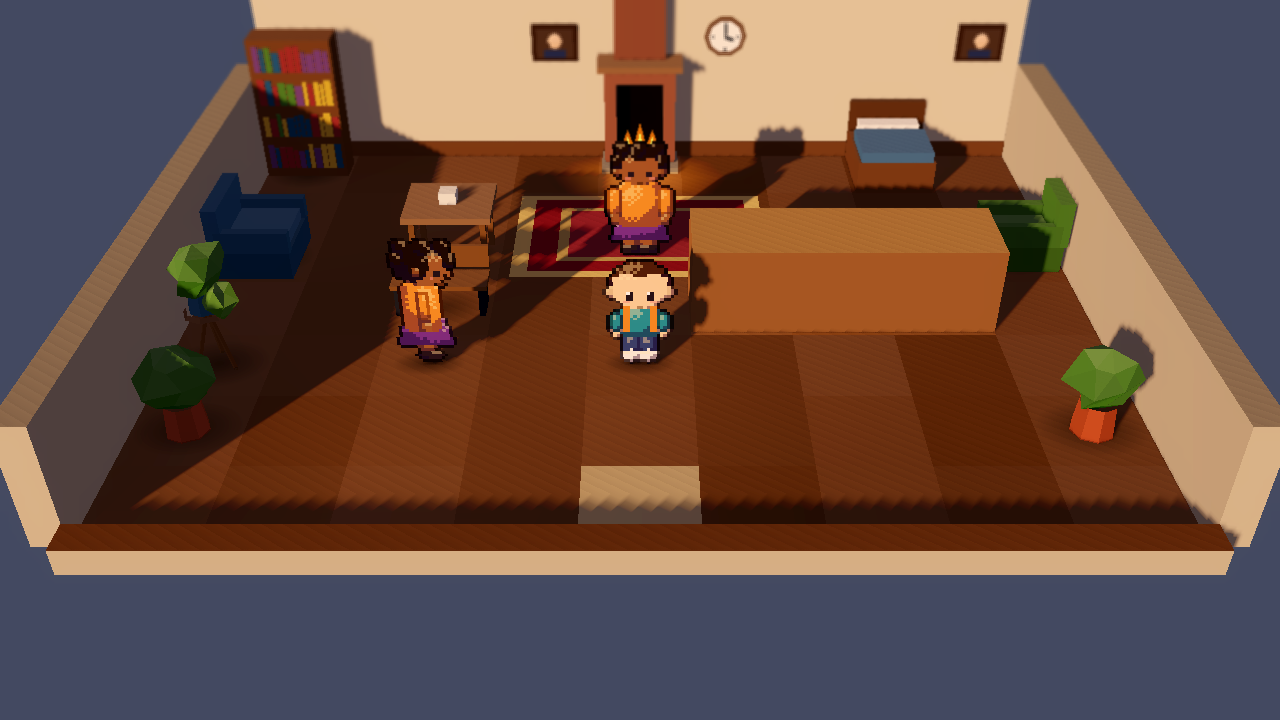
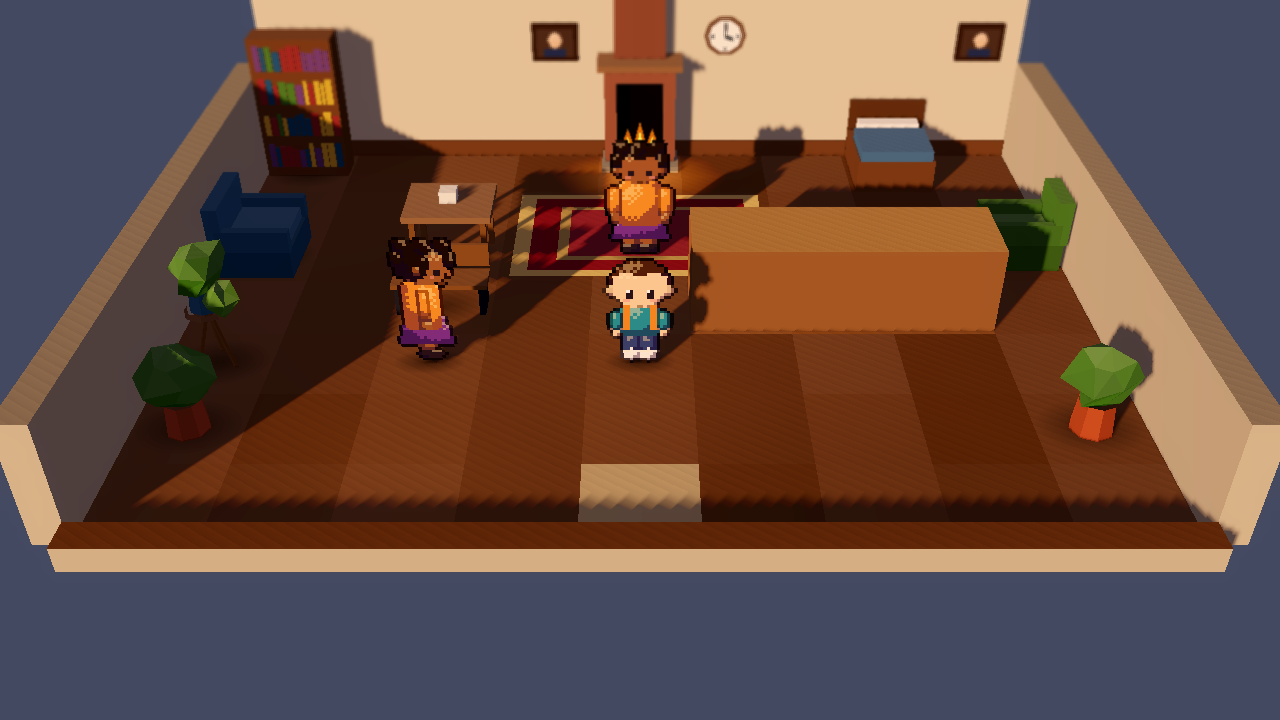
World graphics: tuned after screenshots; no glow pass indoors on Medium/High; lantern beside you in caves
Claude-Session: https://claude.ai/code/session_01ScZErCU1AdyrXuMs3LAqNr

diff --git a/HANDOFF.md b/HANDOFF.md
@@ -11,8 +11,12 @@
   (world/interior_light.gd), readable characters (art/shaders/char_sprite.gdshader, world/char_sprite.gd).
 - Tests: tests/world/test_world_graphics.gd.
 
+- After shots: docs/shots/w45b/*_after.png (medium), city_dusk_after.png (high, 18:05), city_low.png (Low = today).
+- Indoors on Medium/High the glow pass is off (it lifted the dark surround to murky blue; base code does this too).
+- FPS (this loaded iMac, Liverpool): base medium 79 -> 75, base high 63 -> 59; interior 186 -> 176; Low 147.
+
 ## Left
-- Run `tools/test.sh world_graphics`, after shots, tune, push, watch CI.
+- Push and watch CI (full suite runs there, not locally).
 
 ## Gotchas
 - zsh doesn't word-split "$S": pass shot args literally. Shot delay 25 under load (12 caught the title).
